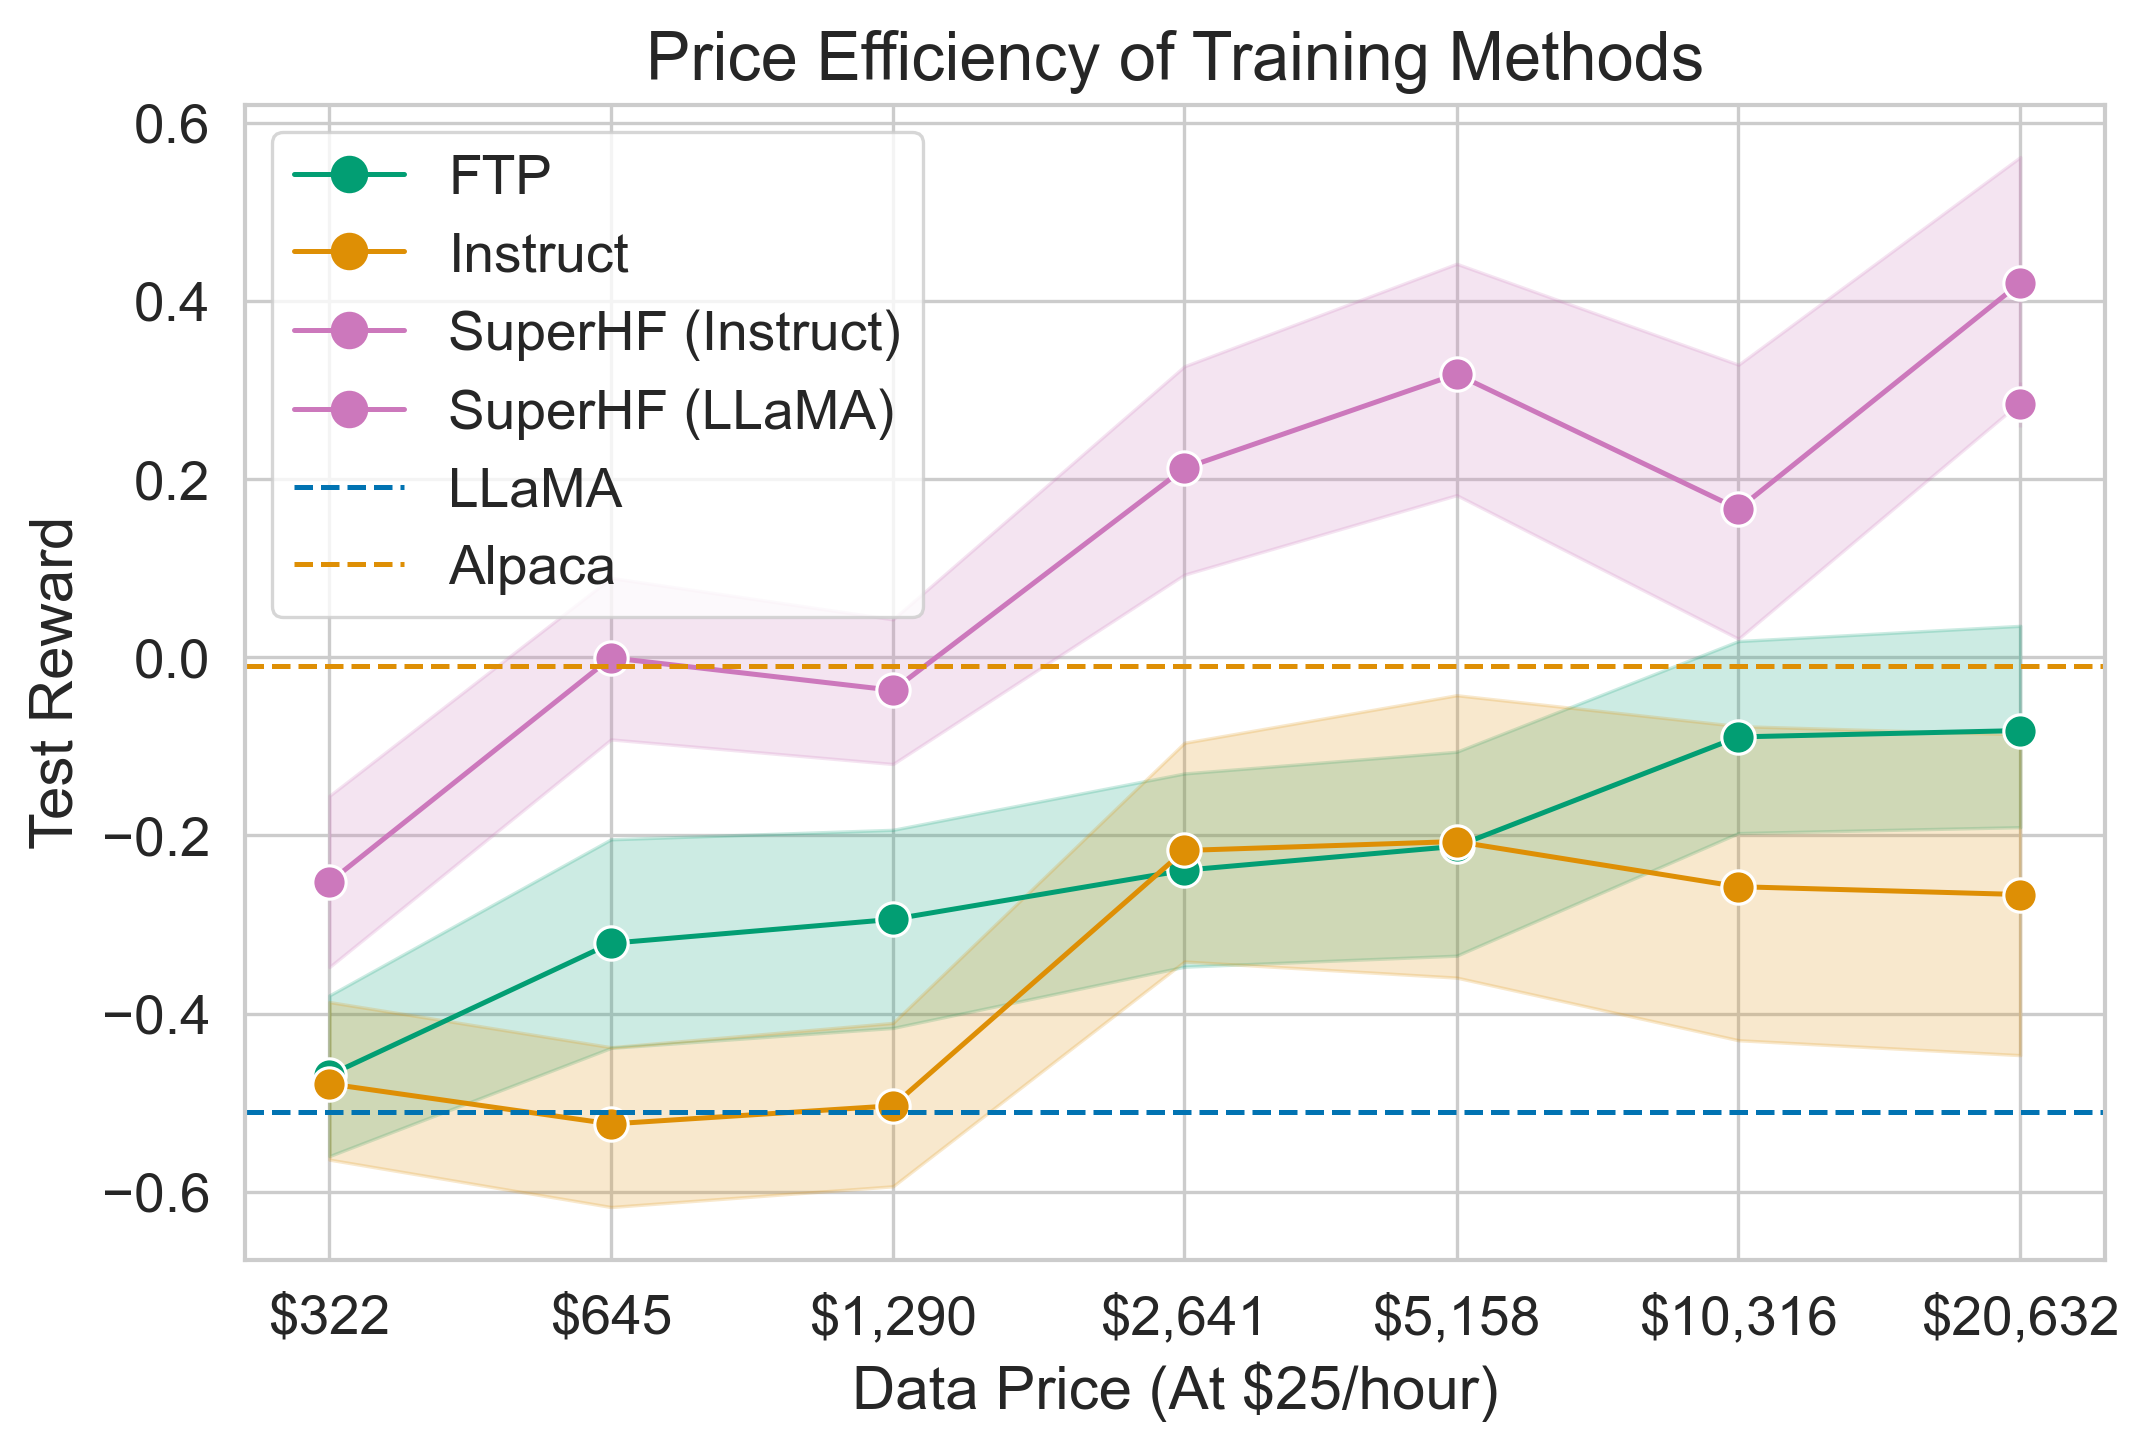
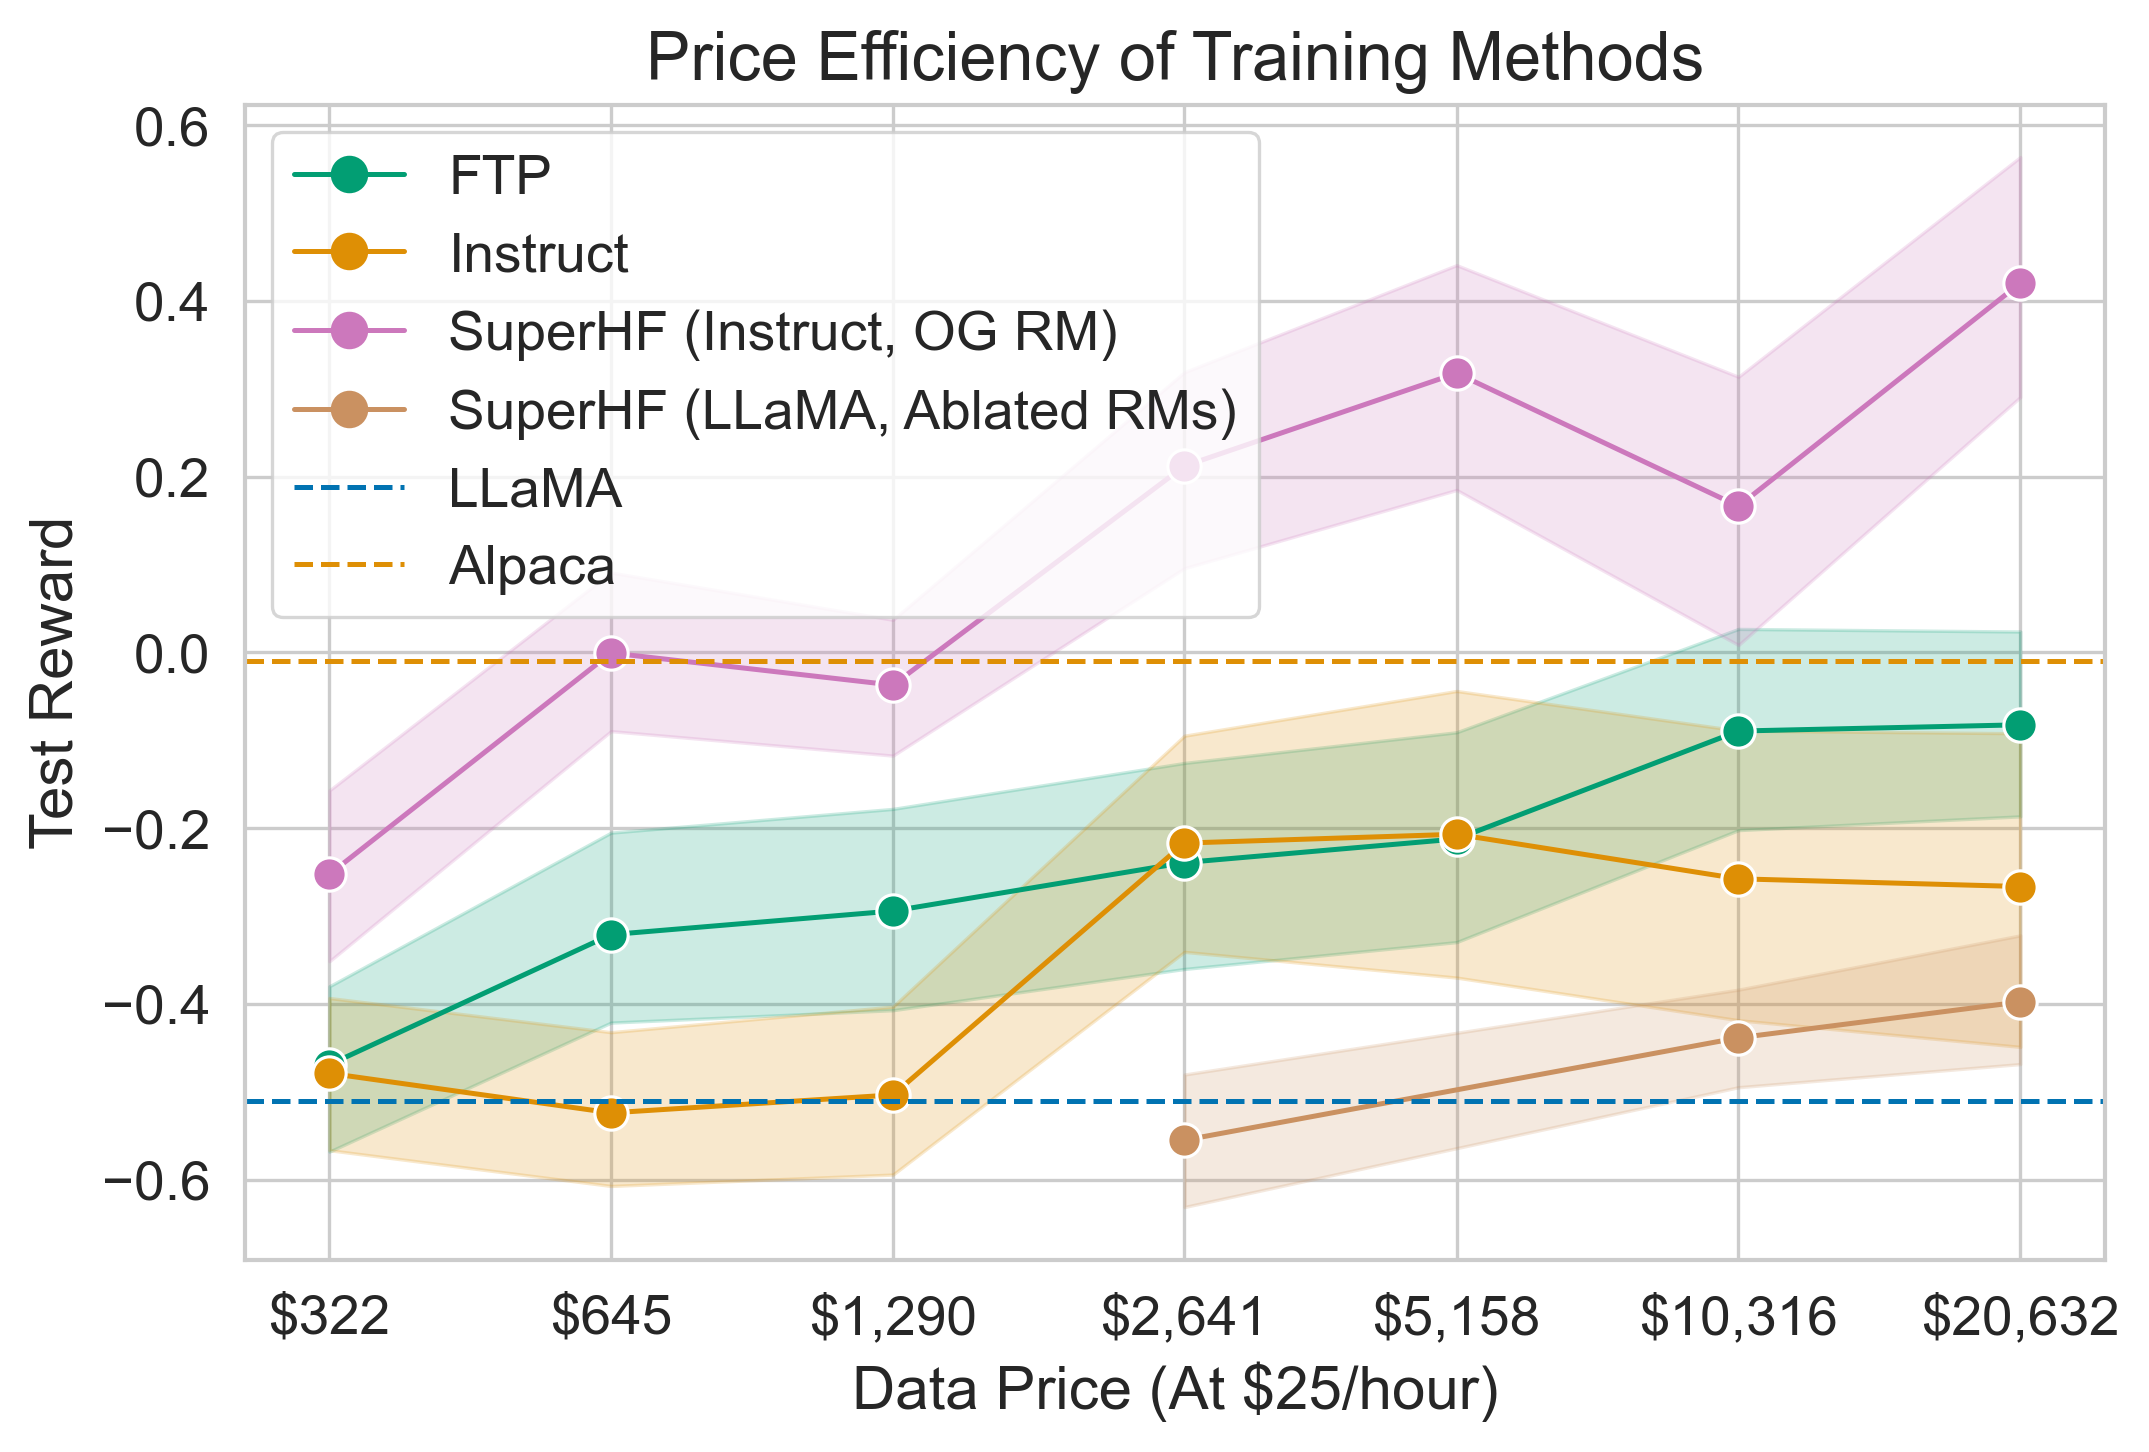
More dollar cost partialgraph

diff --git a/charts/dollar_costs.py b/charts/dollar_costs.py
@@ -21,7 +21,7 @@ INPUT_FILE_MAP = {
         "./experiments/evaluations/test_scores/llama-ftp-49516.json",
         "./experiments/evaluations/test_scores/llama-ftp-24758.json",
         "./experiments/evaluations/test_scores/llama-ftp-12379.json",
-        "./experiments/evaluations/test_scores/llama-ftp-6338.json",
+        "./experiments/evaluations/test_scores/llama-ftp-6190.json",
         "./experiments/evaluations/test_scores/llama-ftp-3095.json",
         "./experiments/evaluations/test_scores/llama-ftp-1547.json",
         "./experiments/evaluations/test_scores/llama-ftp-774.json",
@@ -35,7 +35,7 @@ INPUT_FILE_MAP = {
         "./experiments/evaluations/test_scores/llama-instruct-387.json",
         "./experiments/evaluations/test_scores/llama-instruct-194.json",
     ],
-    "SuperHF (Instruct)": [
+    "SuperHF (Instruct, OG RM)": [
         "./experiments/evaluations/test_scores/shf-v4-llama-instruct-12379.json",
         "./experiments/evaluations/test_scores/shf-v4-llama-instruct-6190.json",
         "./experiments/evaluations/test_scores/shf-v4-llama-instruct-3095.json",
@@ -44,7 +44,16 @@ INPUT_FILE_MAP = {
         "./experiments/evaluations/test_scores/shf-v4-llama-instruct-387.json",
         "./experiments/evaluations/test_scores/shf-v4-llama-instruct-194.json",
     ],
-    "SuperHF (LLaMA)": ["./experiments/evaluations/test_scores/shf-llama-7b.json"],
+    "SuperHF (LLaMA, Ablated RMs)": [
+        # "./experiments/evaluations/test_scores/shf-v4-llama-base-rm-774.json",
+        # "./experiments/evaluations/test_scores/shf-v4-llama-base-rm-1547.json",
+        # "./experiments/evaluations/test_scores/shf-v4-llama-base-rm-3095.json",
+        "./experiments/evaluations/test_scores/shf-v4-llama-base-rm-6190.json",
+        # "./experiments/evaluations/test_scores/shf-v4-llama-base-rm-12379.json",
+        "./experiments/evaluations/test_scores/shf-v4-llama-base-rm-24758.json",
+        "./experiments/evaluations/test_scores/shf-v4-llama-base-rm-49516.json",
+        # "./experiments/evaluations/test_scores/shf-llama-7b.json",
+    ],
 }
 
 
@@ -62,7 +71,7 @@ def main() -> None:
         774: 0,
         1547: 1,
         3095: 2,
-        6338: 3,
+        6190: 3,
         12379: 4,
         24758: 5,
         49516: 6,
@@ -106,14 +115,14 @@ def main() -> None:
     dataframe = pd.DataFrame(all_data, columns=["Cost", "Test Reward", "Model Type"])
 
     # Create the plot
+    palette = [model_type_to_palette_color(m) for m in dataframe["Model Type"].unique()]
+    palette[-1] = model_type_to_palette_color("gpt-4")
     sns.lineplot(
         data=dataframe,
         x="Cost",
         y="Test Reward",
         hue="Model Type",
-        palette=[
-            model_type_to_palette_color(m) for m in dataframe["Model Type"].unique()
-        ],
+        palette=palette,
         errorbar="ci",
     )
 
